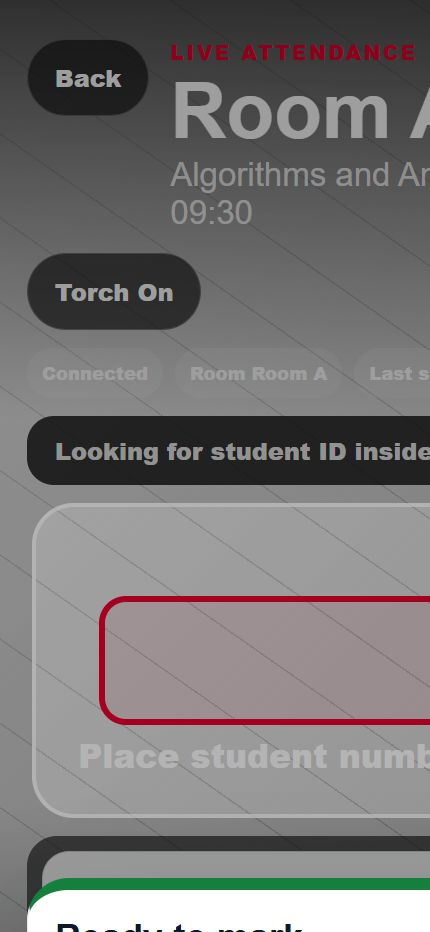
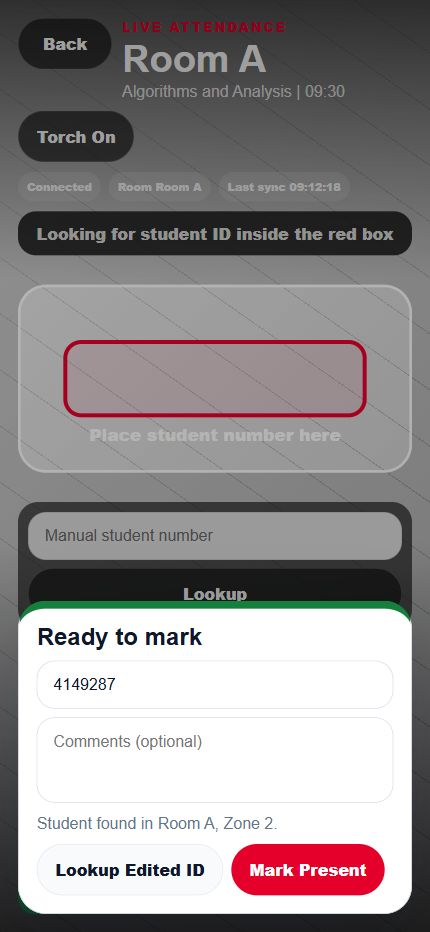
Improve scanner guide screenshots

diff --git a/docs/scanner_screenshot_fixtures.html b/docs/scanner_screenshot_fixtures.html
@@ -187,27 +187,27 @@
       z-index: 1;
       display: grid;
       min-height: 932px;
-      grid-template-rows: auto auto auto minmax(170px, 1fr) auto;
-      gap: 12px;
-      padding: 26px 18px 28px;
+      grid-template-rows: auto auto auto minmax(150px, 1fr) auto;
+      gap: 10px;
+      padding: 18px 18px 18px;
       color: white;
     }
 
     .camera-top {
       display: grid;
-      grid-template-columns: auto 1fr;
-      gap: 14px;
+      grid-template-columns: 94px 1fr;
+      gap: 10px;
       align-items: start;
     }
 
     .camera-top h1 {
-      font-size: 52px;
+      font-size: 38px;
       margin: 4px 0;
     }
 
     .camera-top p {
       color: rgba(255, 255, 255, 0.78);
-      font-size: 22px;
+      font-size: 16px;
     }
 
     .torch {
@@ -224,14 +224,14 @@
     .status-strip span {
       border-radius: 999px;
       background: rgba(255, 255, 255, 0.14);
-      padding: 8px 10px;
-      font-size: 12px;
+      padding: 7px 9px;
+      font-size: 11px;
       font-weight: 800;
     }
 
     .ocr-status {
       border-radius: 18px;
-      padding: 12px 14px;
+      padding: 11px 12px;
       background: rgba(17, 17, 17, 0.82);
       color: rgba(255, 255, 255, 0.9);
       font-weight: 800;
@@ -243,8 +243,8 @@
       align-self: center;
       justify-self: center;
       display: grid;
-      width: min(90vw, 680px);
-      height: min(26vh, 210px);
+      width: 100%;
+      height: 188px;
       place-items: center;
       border: 3px solid rgba(255, 255, 255, 0.78);
       border-radius: 28px;
@@ -263,7 +263,7 @@
       position: absolute;
       bottom: 24px;
       color: rgba(255, 255, 255, 0.86);
-      font-size: 22px;
+      font-size: 17px;
       font-weight: 800;
     }
 
@@ -302,15 +302,16 @@
       border: 1px solid rgba(255, 255, 255, 0.2);
       border-radius: 16px;
       background: rgba(17, 17, 17, 0.64);
-      padding: 12px;
+      padding: 9px 10px;
     }
 
     .stat strong {
-      font-size: 32px;
+      font-size: 26px;
     }
 
     .stat span {
       color: rgba(255, 255, 255, 0.78);
+      font-size: 13px;
     }
 
     .chips {
@@ -337,20 +338,24 @@
       z-index: 3;
       display: grid;
       align-items: end;
-      padding: 18px;
+      padding: 12px 18px 18px;
       background: rgba(0, 0, 0, 0.28);
     }
 
     .review-card {
       display: grid;
-      gap: 12px;
+      gap: 9px;
       border-radius: 28px;
       border: 1px solid var(--line);
       border-top: 8px solid var(--ok);
       background: white;
       color: var(--ink);
-      padding: 18px;
+      padding: 15px 18px 18px;
       box-shadow: var(--shadow);
+    }
+
+    .review-card h2 {
+      font-size: 24px;
     }
 
     .review-card.wrong,
@@ -462,6 +467,10 @@
         </div>
       `),
       scanner: () => cameraBase(),
+      loading: () => cameraBase().replace(
+        "Looking for student ID inside the red box",
+        "Loading OCR model... this may take 20-40 seconds"
+      ),
       ready: () => cameraBase(`
         <div class="review-sheet">
           <section class="review-card">
@@ -476,12 +485,26 @@
           </section>
         </div>
       `),
+      detected: () => cameraBase(`
+        <div class="review-sheet">
+          <section class="review-card">
+            <h2>Correct ID detected</h2>
+            <input value="4149287" />
+            <textarea rows="3" placeholder="Comments (optional)"></textarea>
+            <p class="subtle">Ahmed Student is assigned to this room. Tap Mark Present to record attendance.</p>
+            <div class="review-actions">
+              <button class="secondary">Lookup Edited ID</button>
+              <button>Mark Present</button>
+            </div>
+          </section>
+        </div>
+      `),
       wrong: () => cameraBase(`
         <div class="review-sheet">
           <section class="review-card wrong">
             <h2>Wrong room detected</h2>
             <input value="4181947" />
-            <textarea rows="3" placeholder="Comments (optional)">Student came to Room A.</textarea>
+            <textarea rows="2" placeholder="Comments (optional)">Student came to Room A.</textarea>
             <p class="subtle">Expected Room B, Zone 3. Choose whether to redirect or mark with a mismatch flag.</p>
             <div class="review-actions">
               <button class="secondary">Lookup Edited ID</button>
@@ -496,7 +519,7 @@
           <section class="review-card not-found">
             <h2>Manual entry / comments</h2>
             <input value="4149287" />
-            <textarea rows="3">Student forgot ID; checked photo of student ID.</textarea>
+            <textarea rows="2">Student forgot ID; checked photo of student ID.</textarea>
             <p class="subtle">Use comments when attendance is marked after an alternate identity check.</p>
             <div class="review-actions">
               <button class="secondary">Lookup Edited ID</button>

diff --git a/docs/exampulse_invigilator_instructions_overleaf.tex b/docs/exampulse_invigilator_instructions_overleaf.tex
@@ -107,6 +107,8 @@ Browser & Safari on iPhone, Chrome/Samsung Internet on Android \\
 
 \screenshotimage{screenshots/scanner-login.png}{Invigilator login screen}
 
+\screenshotimage{screenshots/scanner-loading.png}{OCR model loading message on first use}
+
 \section{3. Select Your Room}
 
 After signing in, you will see the room(s) assigned to you for the active exam.
@@ -142,7 +144,7 @@ Already marked & Student has already been marked present for this exam. Do not m
 Student not found & Student number is not in the published exam roster. Check the number, edit it if OCR misread it, and tap \textbf{Lookup} again. If still not found, contact the exam administrator. \\
 \end{tabularx}
 
-\screenshotimage{screenshots/scanner-ready.png}{Successful scan result ready to mark}
+\screenshotimage{screenshots/scanner-detected.png}{Correct ID detected and ready to mark present}
 
 \section{6. Wrong-Room Students}
 
